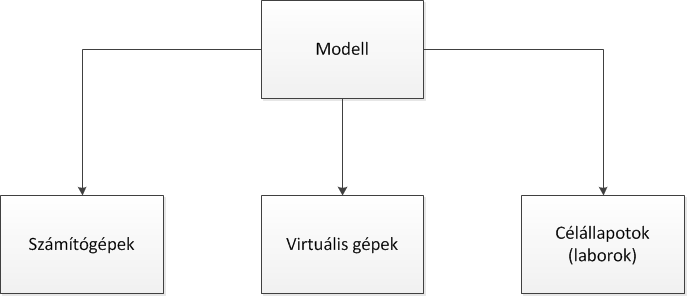
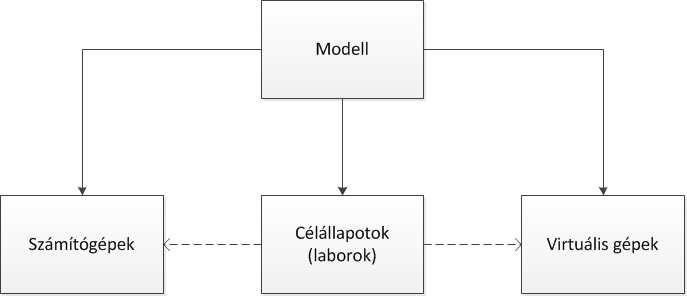
th - figurefixing + fattening

diff --git a/hu.bme.mit.vmdistribution.thesis/src/content/implementation.tex b/hu.bme.mit.vmdistribution.thesis/src/content/implementation.tex
@@ -44,7 +44,17 @@ Az rtorrent tölti be a torrentkliens szerepét, az opentracker a tracker-ét, a
 \section{Használat}
 %----------------------------------------------------------------------------
 
-Az alkalmazás használatához először is szükségünk van a labor modelljét leíró fájlra, ami tartalmazza annak felépítését és a lehetséges célállapotokat. Ezt legegyszerűbben az EMF által generált szerkesztővel lehet létrehozni. A program egy parancssori Java alkalmazás, ezért onnan a következőképpen indíthatjuk el:
+Az alkalmazás használatához először is szükségünk van a labor modelljét leíró fájlra, ami tartalmazza annak felépítését és a lehetséges célállapotokat. Ezt legegyszerűbben az EMF által generált szerkesztővel lehet létrehozni. \Aref{fig:emfeditor}-es ábra a szerkesztő felületének egy részletét ábrázolja, a felvett Computer, Virtualmachine és Lab objektumokat, illetve az éppen kiválasztott Computer-nek az attribútumait.
+
+\begin{figure}[ht]
+\centering
+\includegraphics[width=150mm, keepaspectratio]{figures/emfeditor.png}
+\caption{Az EMF által generált modellszerkesztő felülete (részlet)}
+\label{fig:emfeditor}
+\end{figure}
+
+
+A program egy parancssori Java alkalmazás, ezért onnan a következőképpen indíthatjuk el:
 
 \code{java -jar vmdistribution.jar modelfile goal\_lab logging\_level}
 
@@ -87,7 +97,7 @@ A fájlterítés futását a STOP vagy S parancsokkal lehet megszakítani. Amenn
 		Archiver & ZIP formátumú tömörített fájlokat hoz létre(új Vagrant-os VM-ekből).\\
 		\hline
 		\hline
-		Transfer & Egy VM->laborgép adatátvitelt reprezentál, tárolja a letöltés aktuális állapotát (mennyi van még hátra, sebesség stb.)\\
+		Transfer & Egy VM$\rightarrow$laborgép adatátvitelt reprezentál, tárolja a letöltés aktuális állapotát (mennyi van még hátra, sebesség stb.)\\
 		\hline
 		RTorrentXmlRpcClient & Kapcsolatot létesít XMLRPC protokollon keresztül a laborgépek torrentklienseivel.\\
 		\hline
@@ -125,7 +135,7 @@ A program indítása után rögtön a várt figyelmeztetések jelennek meg a kon
 
 \code{2015-12-08 00:21:48 WARNING hu.bme.mit.vmdistribution.app.EMFModelUtil isCompatible WARNING:\_Computer:labpc104 is not compatible with Virtual Machine:vagrantvm\_test, Not enough RAM!}
 
-Majd meghívódik a Vagrant és létrehozza, valamint beállítja a hozzá tartozó VM-et. \Aref{fig:vboxcap}-es~ábrán látható, hogy a VirtualBox VM-eket tartalmazó mappájába már bele is került az új virtuális gép és meg is jelenik annak a felületén.
+Majd meghívódik a Vagrant és létrehozza, valamint beállítja a hozzá tartozó VM-et. \Aref{fig:vboxcap}-as~ábrán látható, hogy a VirtualBox VM-eket tartalmazó mappájába már bele is került az új virtuális gép és meg is jelenik annak a felületén.
 
 \begin{figure}[ht]
 \centering
@@ -137,7 +147,7 @@ A kész virtuális gépből a program létrehoz egy tömörített .zip állomán
 
 \code{2015-12-08 00:37:03 INFO hu.bme.mit.vmdistribution.app.vmutil.Archiver createZipArchive Creating Archive: E:\textbackslash{}vagrantvm\_test.zip}
 
-\ldots majd a két VM felkerül a seed-re, ahogy \aref{fig:seed_files}-as~ábrán ez látszik is:  a seed-del SSH kapcsolat létesítése után kilistázzuk azoknak a mappáknak a tartalmát ahová a VM-eket tartalmazó zip fájlok, illetve az azok alapján készített torrent fájlok kerültek.
+\ldots majd a két VM felkerül a seed-re, ahogy \aref{fig:seed_files}-es~ábrán ez látszik is:  a seed-del SSH kapcsolat létesítése után kilistázzuk azoknak a mappáknak a tartalmát ahová a VM-eket tartalmazó zip fájlok, illetve az azok alapján készített torrent fájlok kerültek.
 
 \begin{figure}[ht]
 \centering
@@ -146,7 +156,7 @@ A kész virtuális gépből a program létrehoz egy tömörített .zip állomán
 \label{fig:seed_files}
 \end{figure}
 
-Ezután az alkalmazás a torrent fájlokat átmásolja a megfelelő célgépekre, és elindítja rajtuk a torrentklienst. A seed-en futó torrentklienst megnyitva ellenőrizhetjük, hogy elkezdődött-e az adatátvitel (\ref{fig:seed_torrent}-es ábra). A feltöltési limit kézzel alacsonyra lett állítva, hogy a folyamatok megfigyelhetőek legyenek.
+Ezután az alkalmazás a torrent fájlokat átmásolja a megfelelő célgépekre, és elindítja rajtuk a torrentklienst. A seed-en futó torrentklienst megnyitva ellenőrizhetjük, hogy elkezdődött-e az adatátvitel (\ref{fig:seed_torrent}-ös ábra). A feltöltési limit kézzel alacsonyra lett állítva, hogy a folyamatok megfigyelhetőek legyenek.
 
 \begin{figure}[ht]
 \centering
@@ -155,7 +165,7 @@ Ezután az alkalmazás a torrent fájlokat átmásolja a megfelelő célgépekre
 \label{fig:seed_torrent}
 \end{figure}
 
-A két futó fájlátvitel részleteit megnézve ellenőrizhetjük, hogy a megfelelő gépek töltenek-e le. Például a mi általunk készített VM-et tartalmazó testvm.zip-et a labpc101 és 103-nak kellene töltenie, lásd \ref{fig:seed_peers}-ös~ábra (a két gép IP címe .111 ill. .113-ra végződik).
+A két futó fájlátvitel részleteit megnézve ellenőrizhetjük, hogy a megfelelő gépek töltenek-e le. Például a mi általunk készített VM-et tartalmazó testvm.zip-et a labpc101 és 103-nak kellene töltenie, lásd \ref{fig:seed_peers}-os~ábra (a két gép IP címe .111 ill. .113-ra végződik).
 
 \begin{figure}[ht]
 \centering

diff --git a/hu.bme.mit.vmdistribution.thesis/src/content/design.tex b/hu.bme.mit.vmdistribution.thesis/src/content/design.tex
@@ -61,44 +61,25 @@ Az előbb leírt modellrészletek összefogásához még szükségünk egy olyan
 
 Annak a megtervezésére, hogy egy fájlterítési folyamat hogyan zajlik érdemes azt kisebb darabokba vágni, azt definiálni egyszerű műveletekkel.
 Az előbbi fejezetben ismertetett modellre definiálok itt terítési műveleteket, és megkísérlem leírni segítségükkel az egész fájlterítési folyamatot.
-Az egyszerű műveleteket a következő formátumban fogom definiálni: METHOD\_NAME(parameter1\_name: parameter1\_type, parameter2\_name\ldots).
+Az egyszerű műveleteket a következő formátumban fogom definiálni: \code{\large \textbf{METHOD\_NAME}(\textit{parameter1\_name}: parameter1\_type, \textit{parameter2\_name}\ldots)}.
 
 A modellen értelmezett terítési műveletek:
 
 \begin{itemize}
-  \item REMOVE\_DUPLICATES(goal: Lab, resources: LabSystem): Ez a művelet a paraméterei között különbséget képez, vagyis a Lab-ből kiszedi azokat a (Computer, VirtualMachine) párokat, amik a LabSystem-ben már szerepelnek. Ennek az a célja, hogy a terítendő VM-ek közül kiszűrje azokat, amelyek már ott vannak, ahova terítenénk őket.
-  \item DELETE(to\_be\_deleted\_vm : VirtualMachine, from\_pcs: List<Computer>): Ezzel a művelettel törölhetjük a második paraméter Computer-eket tartalmazó lista összes eleméről az adott virtuális gépet.
-  \item ISCOMPATIBLE(pc: Computer, vm: VirtualMachine): Arra a kérdésre válaszol, hogy adot VM kompatibilis-e a Computer-rel. Ellenőrzi az architektúrák megfelelését, a memória és a szabad lemezterület méretét.
-  \item UPLOAD(vm: VirtualMachine, pc: Computer): Feltölti a VM-et a Computer-re, vagyis hozzáadja annak a \code{virtualmachines} listájához. 
+  \item \code{\large \textbf{REMOVE\_DUPLICATES}(\textit{goal}: Lab, \textit{resources}: LabSystem)}: Ez a művelet a paraméterei között különbséget képez, vagyis a Lab-ből kiszedi azokat a (Computer, VirtualMachine) párokat, amik a LabSystem-ben már szerepelnek. Ennek az a célja, hogy a terítendő VM-ek közül kiszűrje azokat, amelyek már ott vannak, ahova terítenénk őket.
+  \item \code{\large \textbf{DELETE}(\textit{to\_be\_deleted\_vm} : VirtualMachine, \textit{from\_pcs}: List<Computer>)}: Ezzel a művelettel törölhetjük a második paraméter Computer-eket tartalmazó lista összes eleméről az adott virtuális gépet.
+  \item \code{\large \textbf{ISCOMPATIBLE}(\textit{pc}: Computer, \textit{vm}: VirtualMachine)}: Arra a kérdésre válaszol, hogy adot VM kompatibilis-e a Computer-rel. Ellenőrzi az architektúrák megfelelését, a memória és a szabad lemezterület méretét.
+  \item \code{\large \textbf{UPLOAD}(\textit{vm}: VirtualMachine, \textit{pc}: Computer)}: Feltölti a VM-et a Computer-re, vagyis hozzáadja annak a \code{virtualmachines} listájához.
 \end{itemize}
 
-% \begin{program}
-% \mbox{A fast exponentiation procedure:}
-% \BEGIN \\ %
-%   \FOR i:=1 \TO 10 \STEP 1 \DO
-%      |expt|(2,i); \\ |newline|() \OD %
-% \rcomment{This text will be set flush to the right margin}
-% \WHERE
-% \PROC |expt|(x,n) \BODY
-%           z:=1;
-%           \DO \IF n=0 \THEN \EXIT \FI;
-%              \DO \IF |odd|(n) \THEN \EXIT \FI;
-% \COMMENT{This is a comment statement};
-%                 n:=n/2; x:=x*x \OD;
-%              \{ n>0 \};
-%              n:=n-1; z:=z*x \OD;
-%           |print|(z) \ENDPROC
-% \END
-% \end{program}
+Az előbbiek segítségével már felírható a terítést elvégző \code{\large \textbf{DISTRIBUTION}(\textit{goal}: Lab, \textit{resources}: LabSystem)} művelet:\vspace{0.5cm}
 
-Az előbbiek segítségével már felírható a DISTRIBUTION(goal: Lab, resources: LabSystem) művelet:
-
-\code{DISTRIBUTION(goal: Lab, resources: LabSystem):}\\
-\indent \code{goal\_no\_duplicates = REMOVE\_DUPLICATES(goal, resources)}\\
-\indent \indent \code{FOR all ComputerConfigs in goal\_no\_duplicates}\\
-\indent \indent \indent	\code{FOR all VirtualMachines in ComputerConfig.Virtualmachines}\\
-\indent \indent \indent	\code{IF(ISCOMPATIBLE(ComputerConfig.Computer, VirtualMachine))}\\
-\indent \indent \indent \indent	\code{THEN UPLOAD(VirtualMachine, ComputerConfig.Computer)}
+\code{\large \textbf{DISTRIBUTION}(\textit{goal}: Lab, \textit{resources}: LabSystem):}\\
+\indent \code{\large goal\_no\_duplicates = \textbf{REMOVE\_DUPLICATES}(\textit{goal}, \textit{resources)}}\\
+\indent \indent \code{\large \textsc{for} \textbf{\textit{all}} ComputerConfigs \textbf{\textit{in}} goal\_no\_duplicates}\\
+\indent \indent \indent	\code{\large \textsc{for} \textbf{\textit{all}} VirtualMachines \textbf{\textit{in}} ComputerConfig.Virtualmachines}\\
+\indent \indent \indent	\code{\large \textsc{if} (\textbf{ISCOMPATIBLE}(ComputerConfig.Computer, VirtualMachine))}\\
+\indent \indent \indent \indent	\code{\large \textsc{then} \textbf{UPLOAD}(VirtualMachine, ComputerConfig.Computer)}
 
 
 %----------------------------------------------------------------------------

diff --git a/hu.bme.mit.vmdistribution.thesis/src/content/backgroundinfo.tex b/hu.bme.mit.vmdistribution.thesis/src/content/backgroundinfo.tex
@@ -64,8 +64,10 @@ Látszik, hogy torrent alapú fájlátvitel megvalósításához legkevesebb eze
 \begin{itemize}
 	\item Minden laborgépen egy torrentkliensre
 	\item Saját torrent tracker-re
+	\item Seed gép kijelölésére
 	\item Egy olyan programra, ami ezek működését vezérli
 \end{itemize}
+Az itt felsorolt elemekből felépülő terítési megoldás leírásához lásd majd \aref{design_apparchi}-as fejezetet. 
 
 Gépeinkre telepítendő torrentkliens esetében az rtorrent-re\cite{sundell2012libtorrent} esett a választás, mivel szükségünk van arra, hogy olyan klienst használjunk, amit a háttérben is tudunk futtatni, illetve az állapota valami módon távolról is lekérhető legyen. Az rtorrent rendelkezik egy XMLRPC\cite{merrick2006xml} alapú interfésszel, aminek segítségével távolról is vezérelhetővé válik. Ilyen interfészt használ a számos rtorrent-hez írt webes felület is, például a legismertebb ruTorrent\cite{rutorrent}. Természetesen minden rtorrent-et futtató gépre telepítenünk kell egy webszervert is, ami az XMLRPC kéréseinket eljuttatja magának a torrentkliensnek, itt a választás az apache-ra\cite{fielding1997apache} esett főleg könnyű telepítése és konfigurálása miatt.
 
@@ -78,7 +80,7 @@ Torrentfájlok létrehozására az mktorrent-et\cite{mktorrent} fogjuk használn
 \section{Metamodellezés}
 %----------------------------------------------------------------------------
 Egy fájlterítés indításához két dologra van szükségünk, hogy mit és hova szeretnénk teríteni. Előző kérdésre \aref{sect:p2p}-es fejezet választ adott, az utóbbira ez fog. A ``hovának'' megadását sokféleképpen elképzelhetjük,  felhasználói szemszögből az lenne a legjobb, ha egyszerűen azt mondhatnánk, hogy ``az IB413-as laborban a Mérés Labor 4. tárgyhoz tartozó környezet terüljön.'' Fontos, hogy képes legyen az alkalmazás egy ilyen kérést végrehajtani, ha a kérést számára értelmezhetőbb formában adjuk át. 
-Metamodellnek nevezünk, amiben egy adott dolgot tudunk modellezni, vagyis leegyszerűsítve ábrázolni. Például egy labor metamodellje alatt egy olyan nyelvet kell elképzelni, amiben leírható tetszőleges oktatási labor. \Aref{fig:emfobj}-as ábra egy ilyen metamodell egyik osztályát ábrázolja.
+A virtuális gép terítési feladatokat érdemes egy saját, úgynevezett szakterület-specifikus nyelven modellezni (angolul Domain-Specific Language, DSE). Egy szakterület-specifikus nyelv legfőbb koncepcióit, kapcsolatait és alapvető struktúráját határozza meg a metamodell. Például egy labor metamodellje alatt egy olyan nyelvet kell elképzelni, amiben leírható tetszőleges oktatási labor. \Aref{fig:emfobj}-as ábra egy ilyen metamodell egyik osztályát ábrázolja.
 
 \begin{figure}[ht]
 	\centering

diff --git a/hu.bme.mit.vmdistribution.thesis/src/content/summary.tex b/hu.bme.mit.vmdistribution.thesis/src/content/summary.tex
@@ -22,12 +22,12 @@ A feladatkiírásban felvetett összes kérdésre választ adtam, a következő 
 
 \begin{itemize}
   \item ``Vizsgálja  meg,  hogyan  alkalmazhatóak  Peer-to-Peer  technológiák  virtuális  gépek 
-szétosztására labor környezetben.'' - \ref{design_apparchi}-as fejezet
+szétosztására labor környezetben.'' - \Aref{design_apparchi}-as fejezetben bemutattam egy olyan terítési megoldás logikai felépítését, ami Bittorrent protokollt használ.
   \item ``Készítsen  egy  olyan  modellező  környezetet,  amelyben  ábrázolhatóak  az  oktatói 
-laborok és virtuális gépeik.'' - \ref{design_model}-es fejezet
+laborok és virtuális gépeik.'' - \Aref{design_model}-es fejezetben felépítettem egy olyan EMF-es modellt, amiben ábrazolhatóak a laborok az azokat felépítő erőforrásokkal (gépek és virtuális gépek) és terítési célállapotokkal (tanórákhoz tartozó gép $\rightarrow$ VM hozzárendelések).
   \item ``Készítsen egy olyan prototípust, amely képes a modellező környezetbe kiadott  néhány
 parancs  automatikus  végrehajtására,  melynek  megvalósításában  Peer-to-Peer 
-technológiákra támaszkodik.'' - \ref{impl_app}-as fejezet
+technológiákra támaszkodik.'' - \aref{chp:implementation}-es fejezetben írtam le egy ilyen, P2P alapú terítés elvégzésére képes alkalmazás implementációjának részleteit. Az alkalmazás prototípusát \aref{impl_app}-as fejezetben próbáltam ki.
 \end{itemize}
 
 
